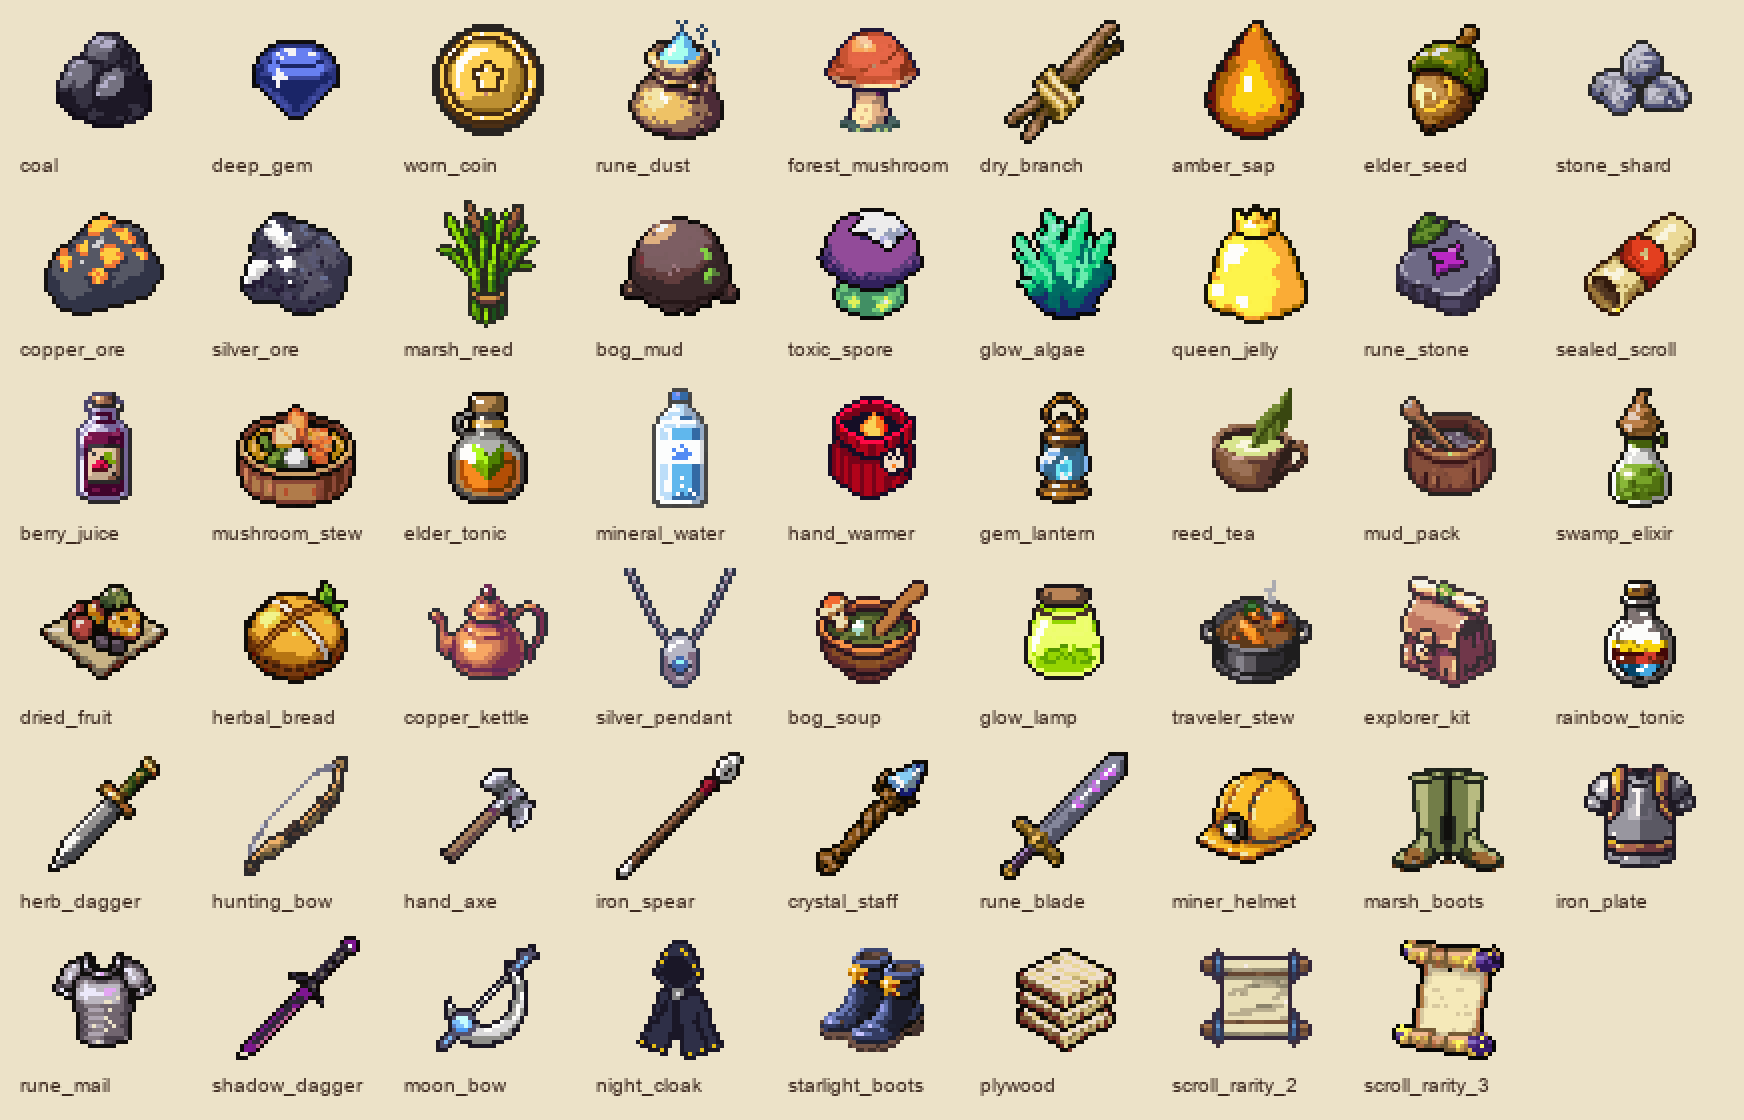
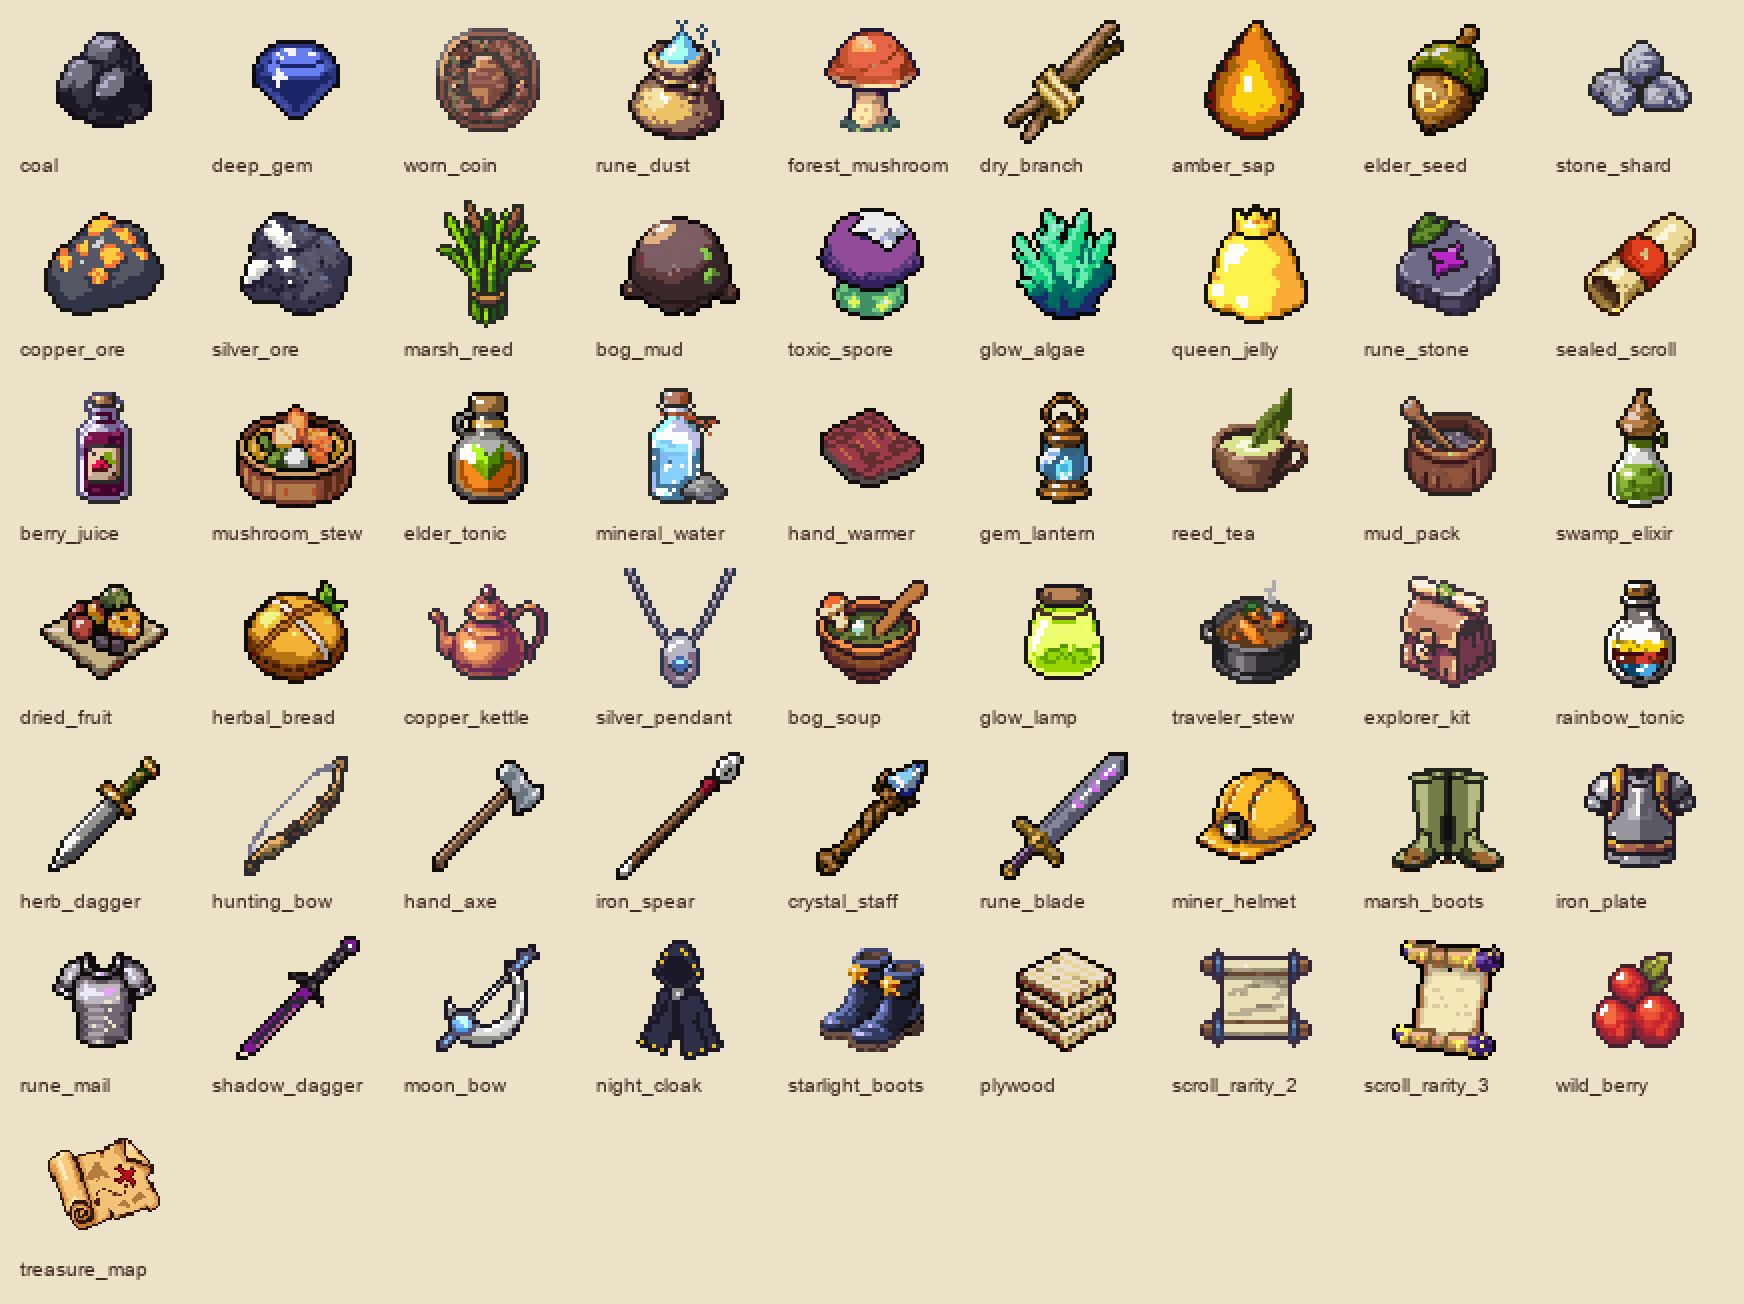
[art] 아이템 아이콘 55장·가구 아이콘 16장 Pixel Lab으로 제작·반영, 누락 아이콘 86→0, 규격 FAIL 14→0
- 아이템: 32x32 생성 → 64x64 2배, 검은 외곽선 방식. 아쉬웠던 worn_coin·hand_warmer·mineral_water·hand_axe 재제작
- 가구 12장 교체 + 4장 신규(night_lantern, antique_cabinet, old_world_map, adventurer_banner), 32x32 격자, 색 48 이하
- wild_berry·treasure_map은 원본을 32색으로 줄여 규격 통과(모양 유지)
- validate_assets: 합계 PASS 128 / WARN 28(UI 크기 26, scroll_rarity 공용 아이콘 이름 2) / FAIL 0, 누락 아이콘 0
- 후보·선택안: docs/그림_작업/받은그림/{아이템,가구}/선택안.txt
- Pixel Lab 생성 이번 작업 누적 약 100회

diff --git a/CLAUDE.md b/CLAUDE.md
@@ -49,8 +49,8 @@
 ## 6. 알려진 문제 (2026-10-06 확인 기준)
 
 - **해결·확인됨:** 누락 이미지로 인한 `preload()` 실패는 코드 검색으로 찾지 못했다. 루트의 `_codex_restore_asset_check.gd`와 `shader/` 폴더는 이미 없다. 개발용 파일은 `dev/`로 옮겨졌다. 빈 폴더는 `scenes/core`만 남아 있고 파일이 1개 있다.
-- **아이콘 파일 없음 86개:** `python tools/validate_assets.py .` 결과. `art/items/pixel_v1/`에 36장뿐이다(석탄·구리 광석·말린 열매 등). 이미지 담당(Claude, Pixel Lab) 몫이며, 그 2D 그림들이 3D 전환 뒤에도 실제로 쓰이는지 먼저 확인한다.
-- **이미지 규격 FAIL 14개:** 가구 12개와 `treasure_map.png`, `wild_berry.png`가 색 상한(32/48색)을 넘거나 반투명 픽셀이 있다. 버전 폴더 7개도 정리 후보다.
+- **아이콘 누락 0개, 이미지 규격 FAIL 0개(2026-10-07 해결):** Pixel Lab으로 아이템 아이콘 55장·가구 아이콘 16장을 32×32 격자로 만들어 64×64로 넣었다. 생성 기록과 후보는 `docs/그림_작업/받은그림/`(선택안.txt). 남은 WARN은 UI 크기 26개와 두루마리 공용 아이콘 이름 2개(`scroll_rarity_2/3`, 문제 없음).
+- 버전 폴더 7개(`pixel_v1` 등)는 정리 후보다.
 - `data/` 안에 Godot가 CSV를 번역 파일로 착각해 만든 `.translation` 파일이 저장소에 227개 올라가 있다. 커밋 전에는 `git ls-files -m | grep "\.translation$" | xargs -r git checkout --`로 되돌린다. CSV 가져오기 설정을 바꿔 정리할 후보(변경 전 내보내기 영향 확인).
 - 가방 셀(46px)·인벤토리 셀(52px)에 64px 아이콘을 넣어 픽셀 배율이 정수가 아니다.
 - **검사 56개는 이 클라우드 환경에서 모두 통과**한다(`dev/run_all_checks.sh`). 사용자 PC에서 같은지는 아직 확인하지 않았다. 화면을 직접 띄워 보는 확인(대화창 줄바꿈, 책 UI)도 사용자 몫이다.

diff --git a/docs/그림_3D/이미지_제작_목록.md b/docs/그림_3D/이미지_제작_목록.md
@@ -35,6 +35,8 @@ Pixel Lab MCP(`create_image_pixflux`) 설정: `width=32, height=32, no_backgroun
 - 1차(갈색 외곽선 + 짧은 대상)는 석탄이 갈색 돌, 보석이 둥근 덩어리, 동전이 나무 단면, 룬 가루가 돌처럼 나와 **물건이 읽히지 않았다.**
 - 2차(검은 외곽선 + 색·형태·재질을 적은 대상)는 기존 아이콘(`forest_herb`, `iron_ore` 등)과 외곽선·도트 굵기가 맞고 한눈에 읽혔다.
 - 그래서 **"프롬프트용 대상"은 색·형태·특징을 한 문장으로 구체적으로 적는다**(예: `lump of coal` → `lump of black coal, jet black and charcoal grey angular chunk ...`). 가루·액체처럼 모양이 없는 재료는 담는 그릇(주머니, 병)과 함께 그린다.
+- **가구 아이콘도 32×32 격자**로 만든다(64×64 직접 생성과 비교해 아이템과 도트 굵기가 맞음, 2026-10-07). 가구 공통 앞부분: `32x32 pixel art furniture icon for a cozy fantasy shop build menu, single object filling almost the entire canvas (tight crop), centered, 3/4 view from slightly above, Stardew Valley style, thick dark outline, warm colors, 3-4 tone shading, no drop shadow, no anti-aliasing.` 바닥 그림자가 회색으로 남으면 그 색만 지운다. 색 상한은 48.
+- 기존 그림이 이미 보기 좋고 색 수만 넘는 경우(`wild_berry`, `treasure_map`)는 새로 만들지 않고 원본을 32색으로 줄였다.
 - 생성 뒤 반투명은 알파 128 기준으로 정리하고, 32×32에서 색이 32개를 넘으면 32색으로 줄인 뒤 2배 확대한다.
 
 - 개별 항목은 `Subject: <대상>` 형식으로 뒤에 붙입니다. 표의 "프롬프트용 대상" 열을 그대로 쓰면 됩니다.
